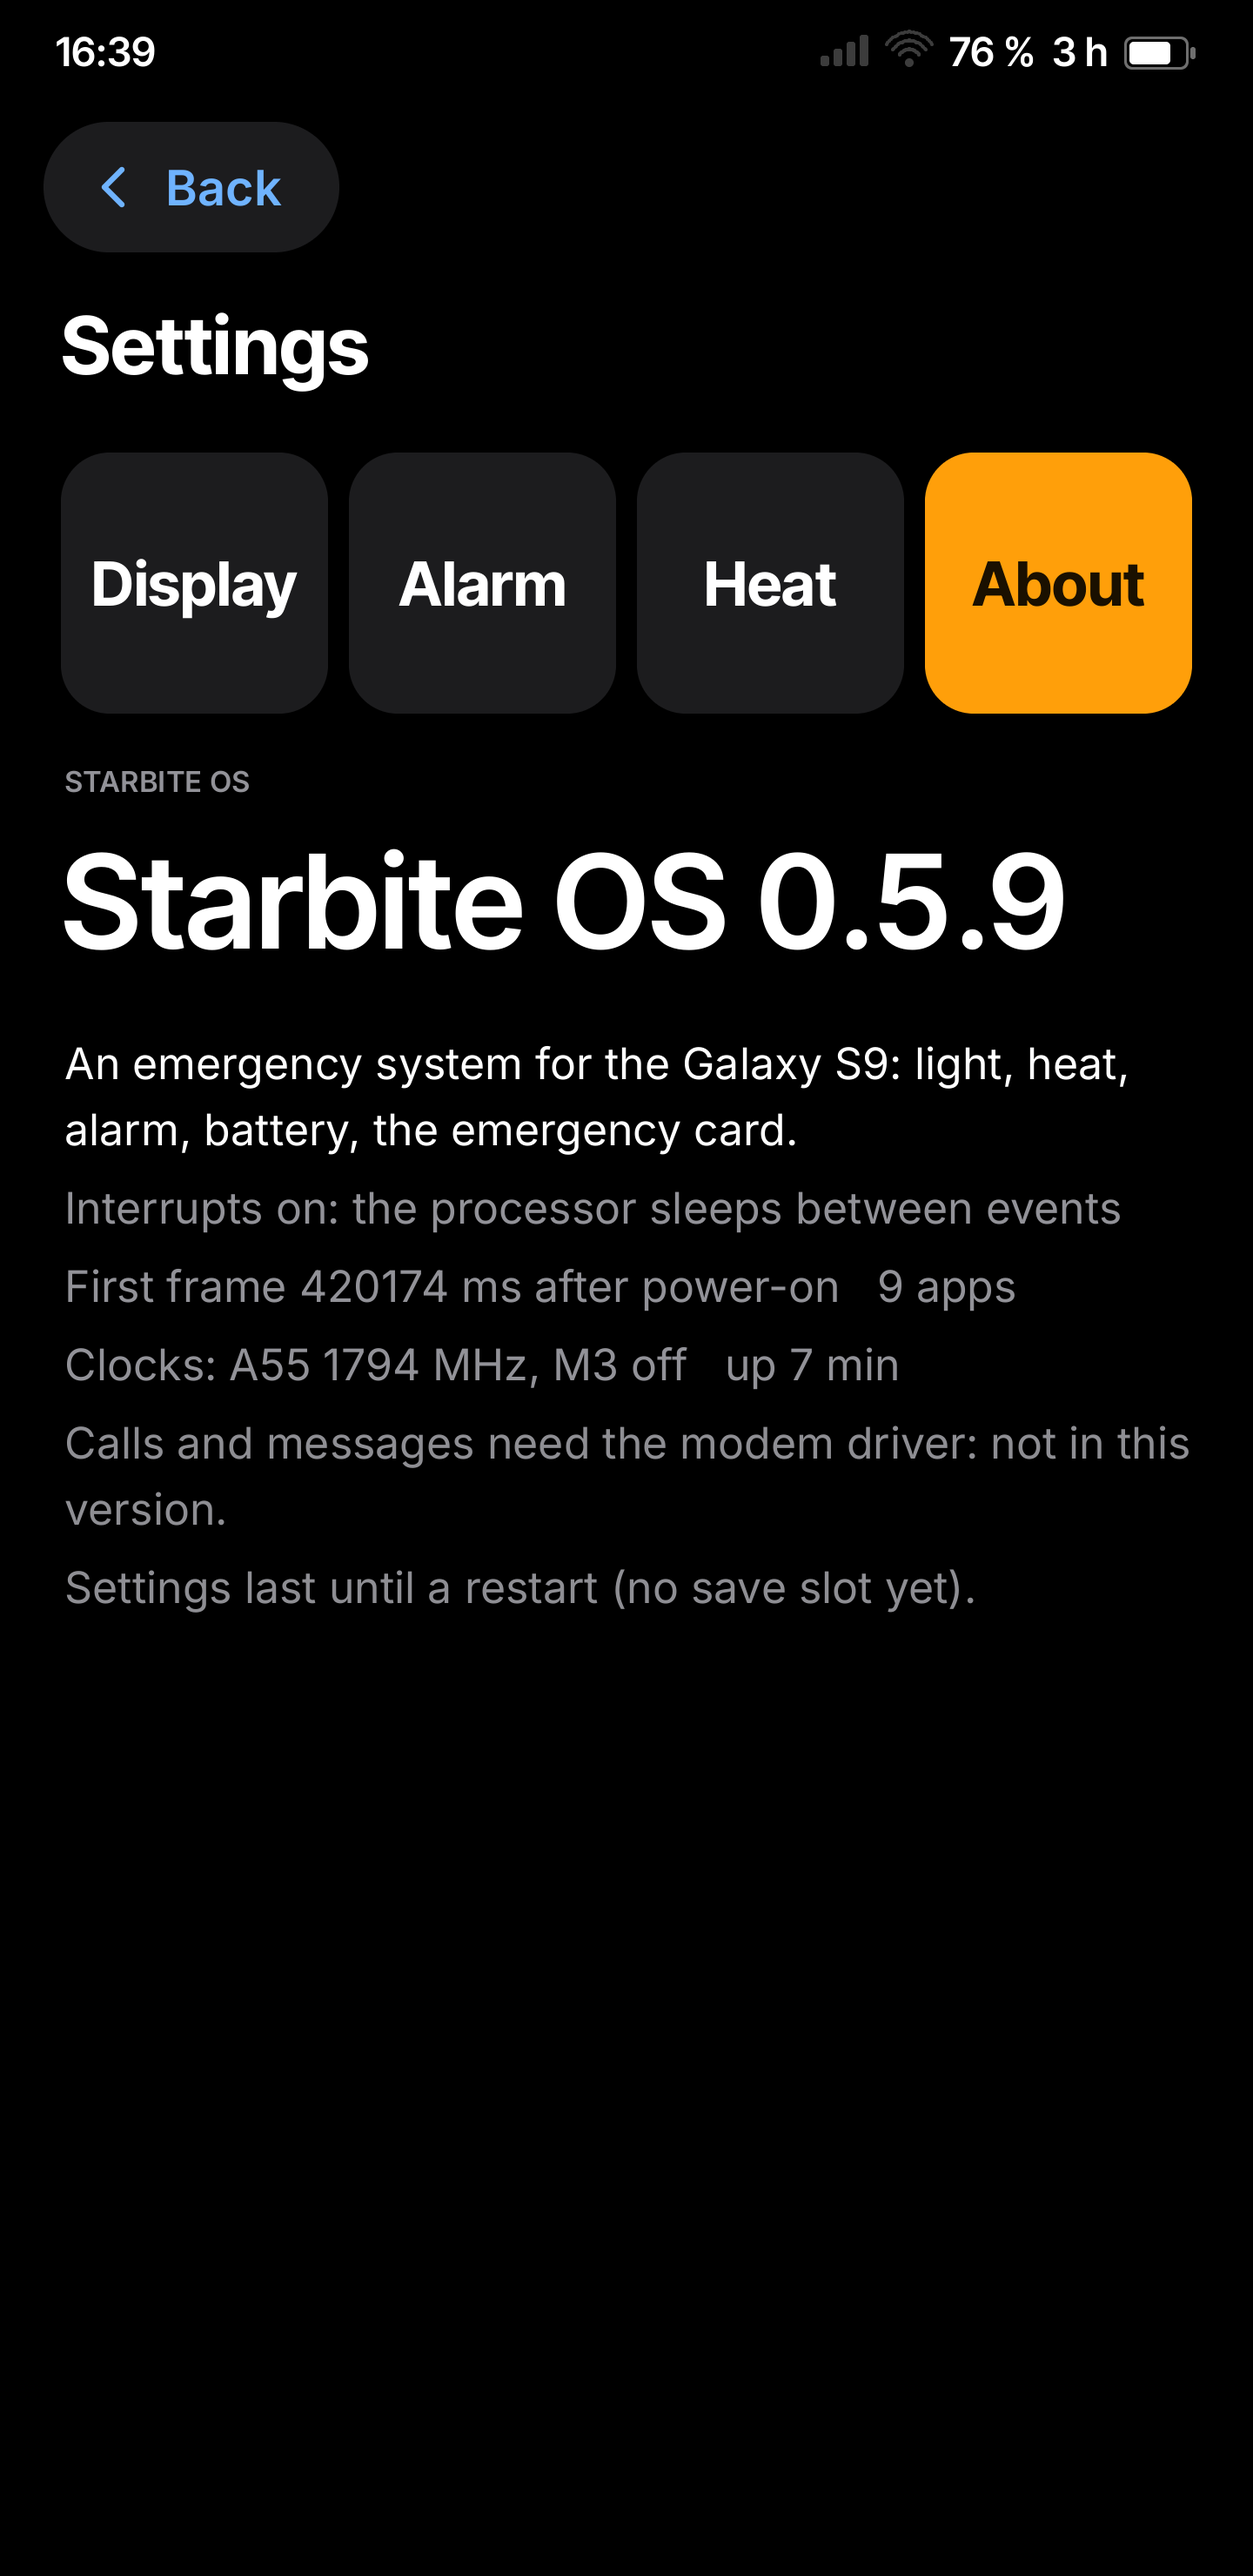
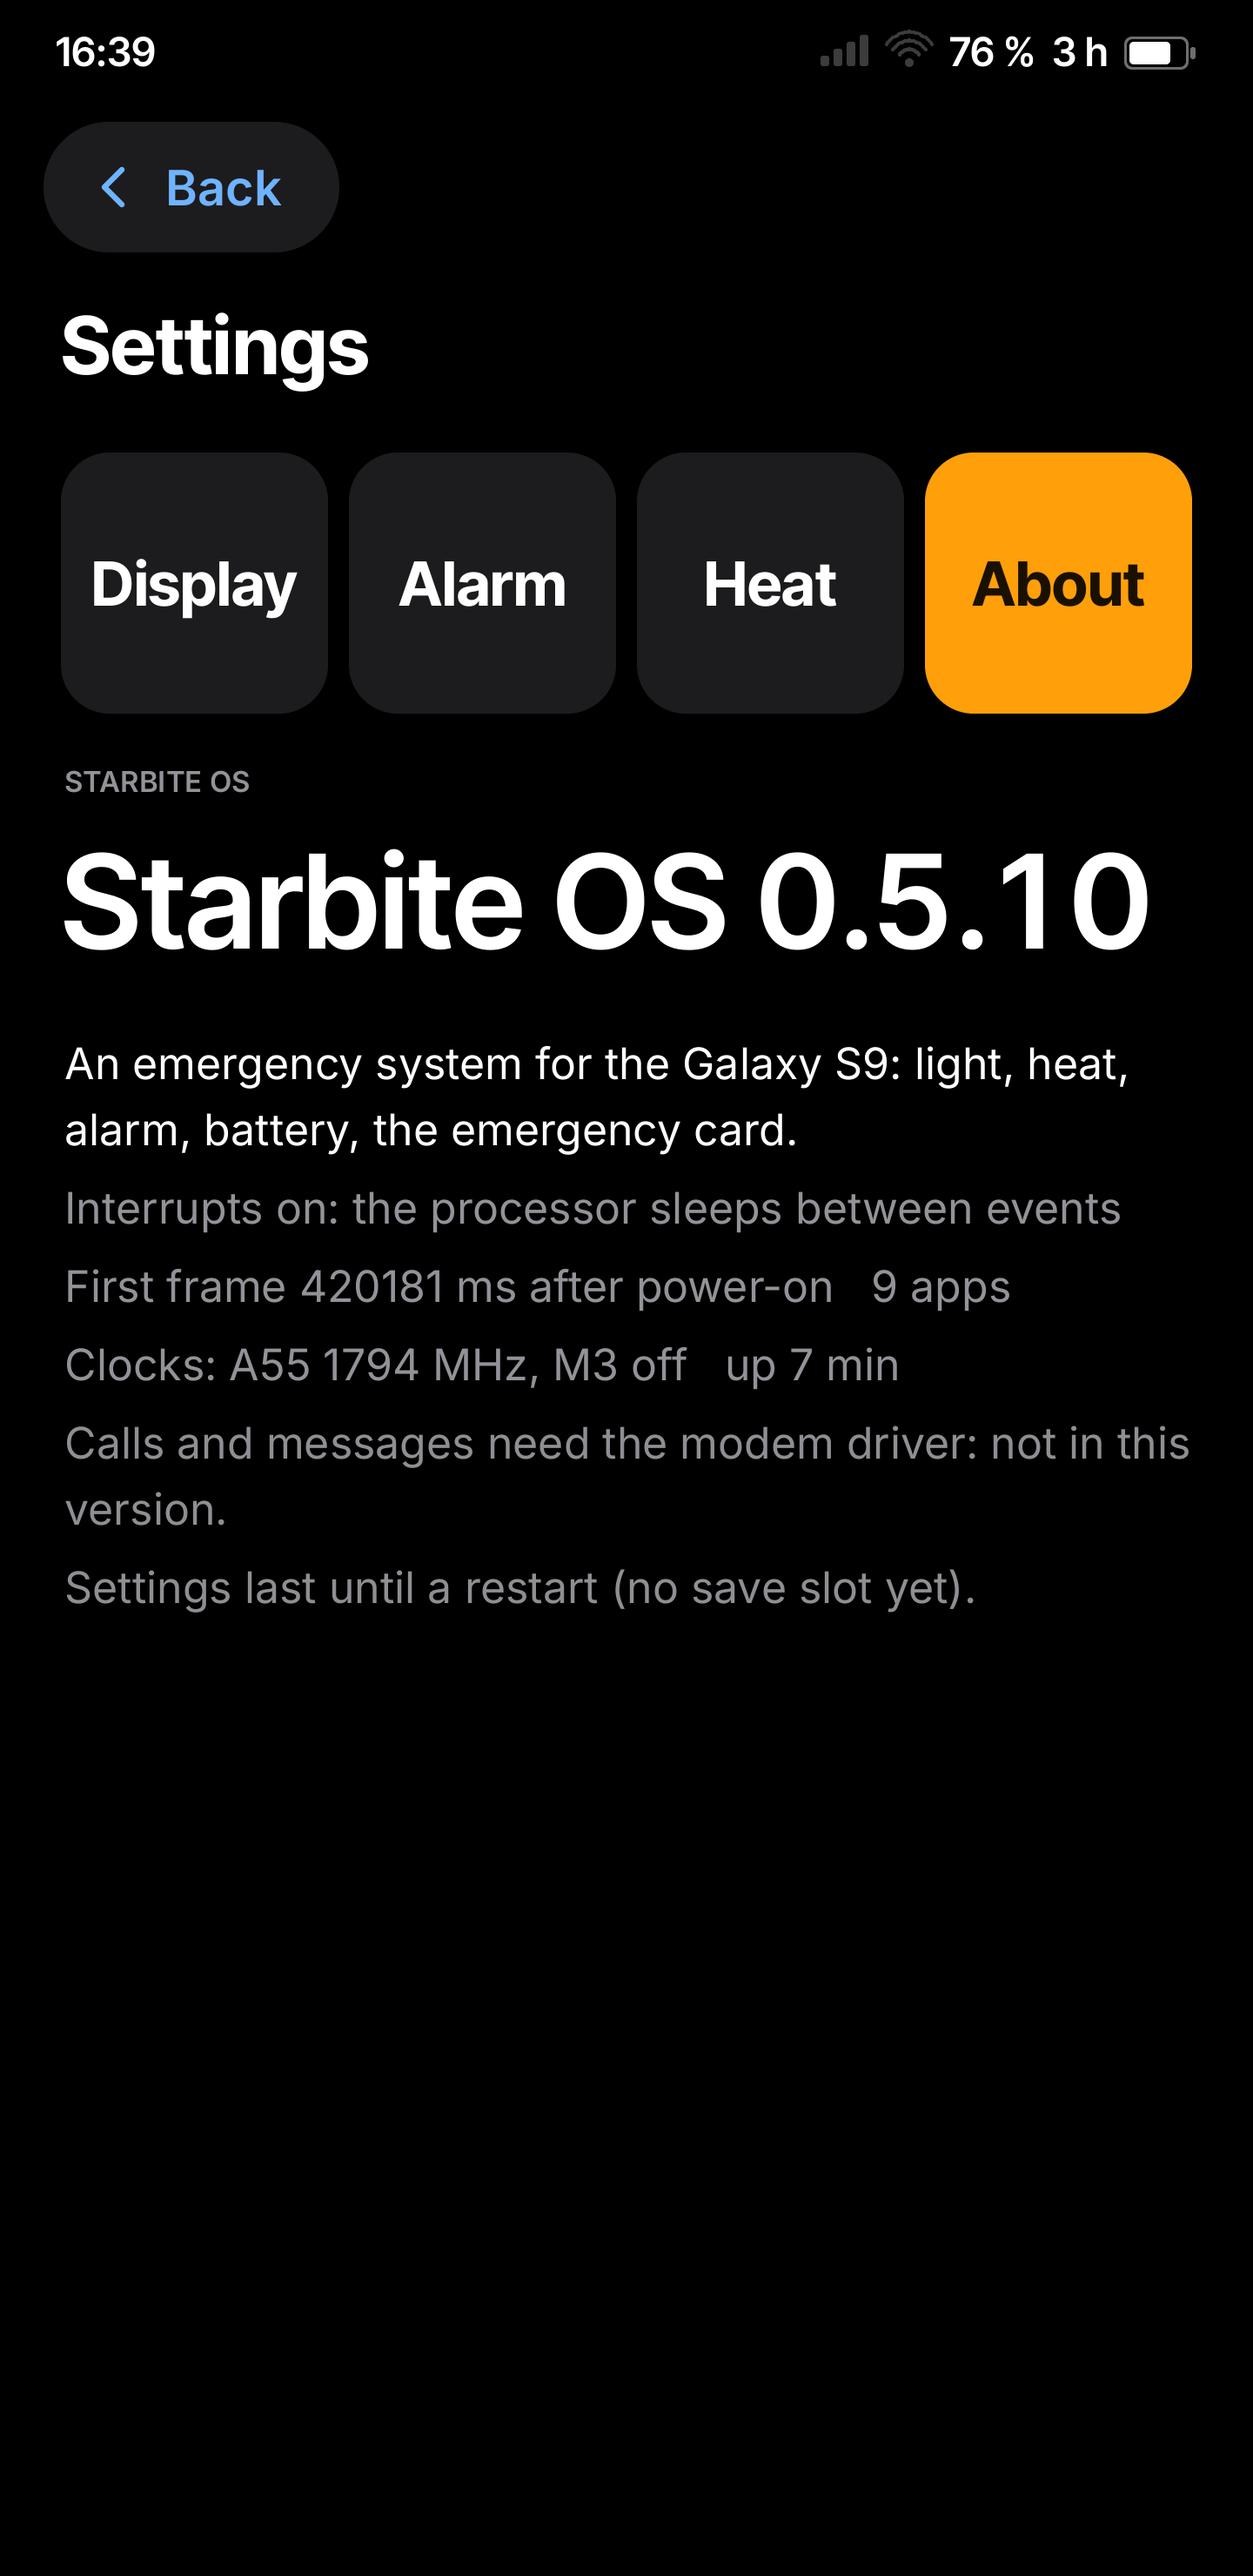
Starbite OS 0.5.10: fewer wake-ups with the screen on (input read at 20 Hz after 5 s idle)
Host: 406 checks, self test passed (28 screens), settings, wifi and monkey tests (also 20 x 1500 actions),
soak 9/9; reproducible image sha256 1eceaddb0a4a1bc09ac9b52b4808636404b3c4193c492f3f6673d1c8091495b3.

Changed region(s): [[0.3125, 0.4973, 0.6562, 0.5284], [0.7812, 0.3108, 0.9375, 0.373], [0.6875, 0.4973, 0.8125, 0.5284]]

diff --git a/starbite/sbos/kern/input.c b/starbite/sbos/kern/input.c
@@ -150,6 +150,16 @@ int input_poll(void)
         touch_poll(now);
     else
         sb_touch_clear();
+    /* 0.5.10: with the screen on, 60 reads a second only while something happens; after 5 s without a touch or a
+     * key, 20 (the first touch then waits up to 50 ms), back to 60 at once. Screen off: 20 (services.c). */
+    if (K.screen_on) {
+        static unsigned period = 16;
+        unsigned want = (t_down || t_power || t_bixby || vol_key || now - last_input < 5000U) ? 16U : 50U;
+        if (want != period) {
+            period = want;
+            kt_set(KT_INPUT, 1, now, want, 1);
+        }
+    }
     return qh != before;
 }
 

diff --git a/starbite/sbos/kern/kern.h b/starbite/sbos/kern/kern.h
@@ -8,7 +8,7 @@
 #include <stddef.h>
 #include "sbapp.h"
 
-#define SBOS_VERSION "0.5.9"
+#define SBOS_VERSION "0.5.10"
 
 /* ---- timers (timer.c, pure) ------------------------------------------------------------------ */
 /* Owners: kernel tasks 0..15, apps 16 + app index. */
